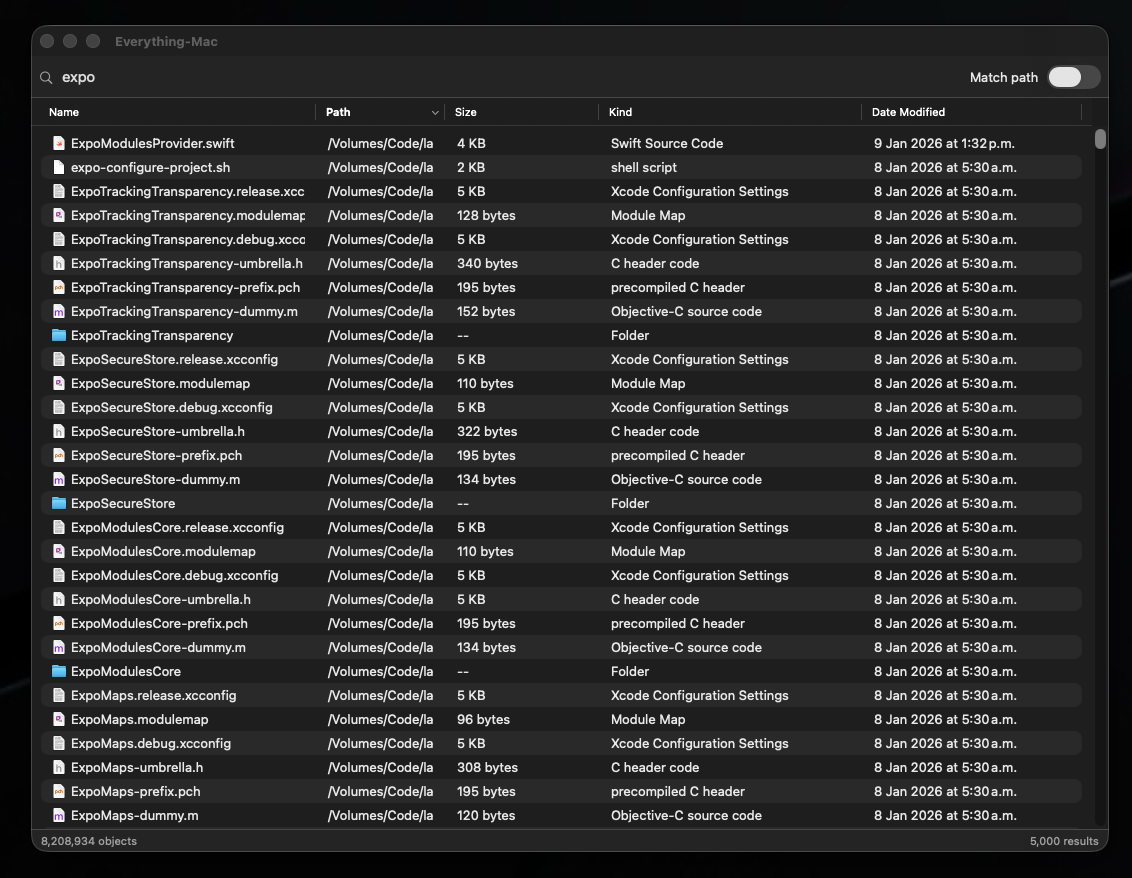
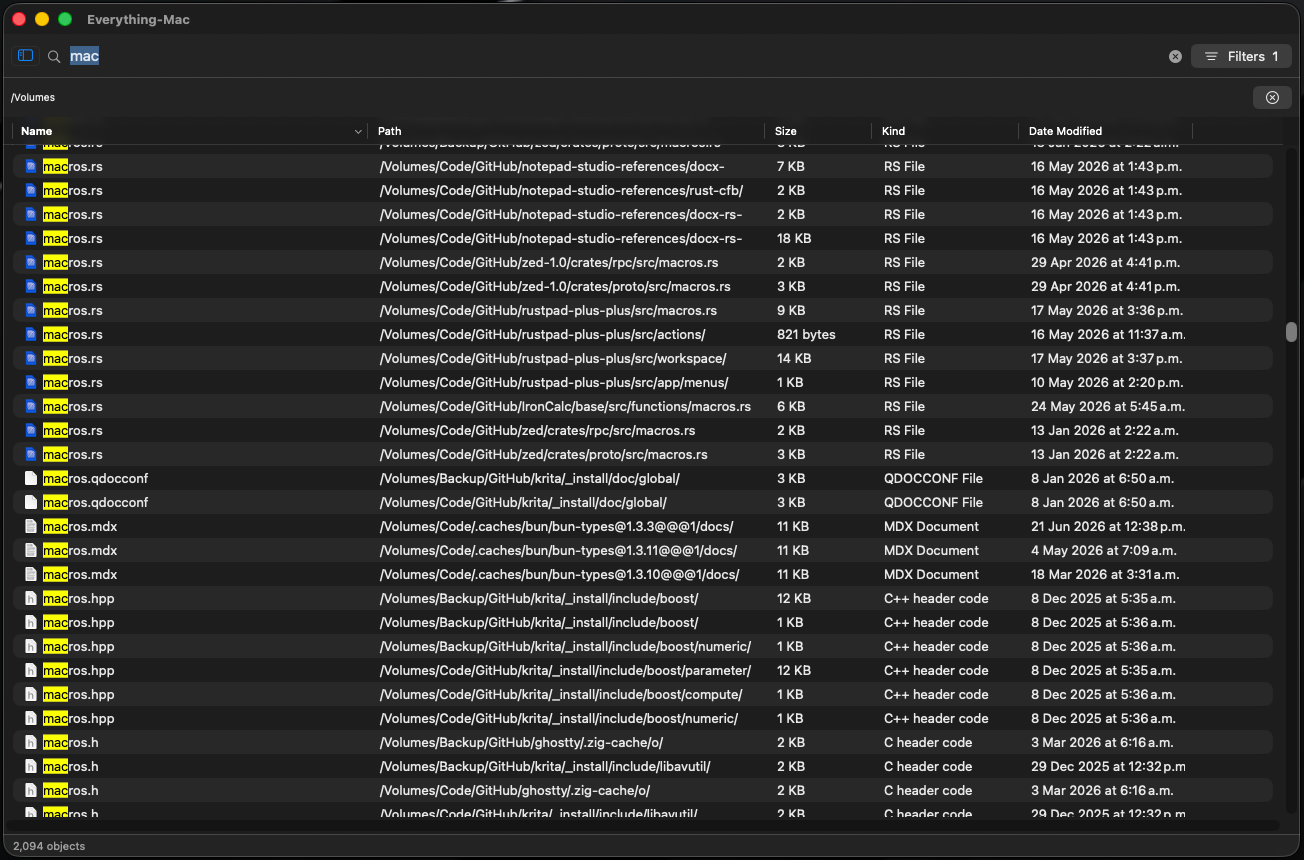
docs: update readme with current application screenshot

Changed region(s): [[0.0, 0.0, 1.0, 0.9977], [0.742, 0.0, 0.8039, 0.0302]]

diff --git a/README.md b/README.md
@@ -2,7 +2,7 @@
 
 Search files and folders across your disks as you type. Normal searches match consecutive text: `expo` finds `export.swift`. Optional fuzzy matching finds abbreviated names and tolerates a single letter typo in longer terms. It's a macOS clone of [Everything](https://www.voidtools.com/), the search tool I lived in back on Windows.
 
-![EverythingMac searching across 8.2 million files](assets/screenshot.png)
+![EverythingMac searching for mac on indexed volumes](assets/screenshot.png)
 
 **[Download the latest release](https://github.com/alesloa/everything-mac/releases/latest)** (macOS 14+), or [build it from source](#build-and-run).
 
